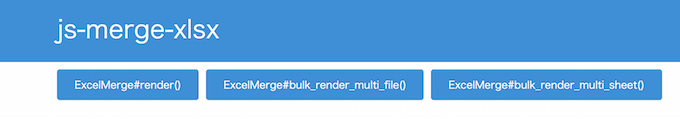
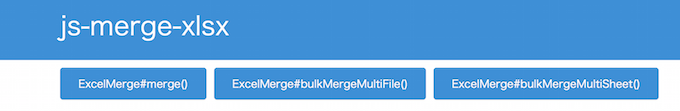
update ReadMe

Changed region(s): [[0.0618, 0.5676, 0.9882, 0.9189], [0.0618, 0.1351, 0.3397, 0.3784], [0.0, 0.5135, 1.0, 0.5405]]

diff --git a/example/1_node/src/app.js b/example/1_node/src/app.js
@@ -16,23 +16,23 @@ var _ = require('underscore');
 fs.readFileAsync('./template/Template.xlsx')
 .then((excelTemplate)=>{
     return Promise.props({
-        data: readYamlAsync('./data/data1.yml'),                //Load single data
-        bulkData: readYamlAsync('./data/data2.yml'),            //Load array data
-        merge: new ExcelMerge().load(new JSZip(excelTemplate))  //Initialize ExcelMerge object
+    data: readYamlAsync('./data/data1.yml'),                        //Load single data
+        bulkData: readYamlAsync('./data/data2.yml'),                //Load array data
+        excelMerge: new ExcelMerge().load(new JSZip(excelTemplate)) //Initialize ExcelMerge object
     });
-}).then(({data, bulkData, merge})=>{
+}).then(({data, bulkData, excelMerge})=>{
 
-    //add name property for ExcelMerge#bulkRenderMultiFile()
+    //add name property for ExcelMerge#bulkMergeMultiFile()
     let bulkData1 = _.map(bulkData, (e,index)=> ({name:`file${index+1}.xlsx`, data:e}));
 
-    //add name property for ExcelMerge#bulkRenderMultiSheet()
+    //add name property for ExcelMerge#bulkMergeMultiSheet()
     let bulkData2 = _.map(bulkData, (e,index)=> ({name:`example${index+1}`, data:e}));
 
-    //Execute rendering
+    //Execute merge
     return Promise.props({
-        excel1: merge.render(data),
-        excel2: merge.bulkRenderMultiFile(bulkData1),
-        excel3: merge.bulkRenderMultiSheet(bulkData2)
+        excel1: excelMerge.merge(data),
+        excel2: excelMerge.bulkMergeMultiFile(bulkData1),
+        excel3: excelMerge.bulkMergeMultiSheet(bulkData2)
     });
 }).then(({excel1, excel2, excel3})=>{
     return Promise.all([

diff --git a/README.md b/README.md
@@ -25,18 +25,48 @@ Prepare the template with bind-variables as mustache format {{}}.
 js-merge-xlsx supports Promises/A+([bluebird](https://github.com/petkaantonov/bluebird)). So, it is called basically in Promise-chain.  
 Example(ES6 syntax)  
 ```JavaScript
+/**
+ * * app.js
+ * * Example on Node.js
+ * * @author Satoshi Haga
+ * * @date 2015/09/30
+ **/
+
+var ExcelMerge = require('js-merge-xlsx');
+var Promise = require('bluebird');
+var readYamlAsync = Promise.promisify(require('read-yaml'));
+var fs = Promise.promisifyAll(require('fs'));
+var JSZip = require('jszip');
+var _ = require('underscore');
+
+//Load Template
 fs.readFileAsync('./template/Template.xlsx')
-.then((excel_template)=>{
+.then((excelTemplate)=>{
     return Promise.props({
-        rendering_data: readYamlAsync('./data/data.yml'),
-        merge: new ExcelMerge().load(new JSZip(excel_template))
+    data: readYamlAsync('./data/data1.yml'),                        //Load single data
+        bulkData: readYamlAsync('./data/data2.yml'),                //Load array data
+        excelMerge: new ExcelMerge().load(new JSZip(excelTemplate)) //Initialize ExcelMerge object
     });
-}).then((result)=>{
-    let rendering_data = result.rendering_data;
-    let merge =  result.merge;
-    return merge.render(rendering_data);
-}).then((excel_data)=>{
-    fs.writeFileAsync('Example.xlsx',excel_data);
+}).then(({data, bulkData, excelMerge})=>{
+
+    //add name property for ExcelMerge#bulkMergeMultiFile()
+    let bulkData1 = _.map(bulkData, (e,index)=> ({name:`file${index+1}.xlsx`, data:e}));
+
+    //add name property for ExcelMerge#bulkMergeMultiSheet()
+    let bulkData2 = _.map(bulkData, (e,index)=> ({name:`example${index+1}`, data:e}));
+
+    //Execute merge
+    return Promise.props({
+        excel1: excelMerge.merge(data),
+        excel2: excelMerge.bulkMergeMultiFile(bulkData1),
+        excel3: excelMerge.bulkMergeMultiSheet(bulkData2)
+    });
+}).then(({excel1, excel2, excel3})=>{
+    return Promise.all([
+        fs.writeFileAsync('example1.xlsx',excel1),
+        fs.writeFileAsync('example2.zip',excel2),
+        fs.writeFileAsync('example3.xlsx',excel3)
+    ]);
 }).catch((err)=>{
     console.error(new Error(err).stack);
 });
@@ -50,21 +80,84 @@ Bluebird automatically casts thenable object, such as object returned by "$http.
 So, you can code in the same way as Node.js.    
 Example(ES6 syntax)  
 ```JavaScript
-Promise.resolve($http.get('/template/Template.xlsx', {responseType: "arraybuffer"}))
-.then((excel_template)=>{
-    return Promise.props({
-        rendering_data: $http.get('/data/data1.json'),
-        merge: new ExcelMerge().load(new JSZip(excel_template.data))
-    });
-}).then((result)=>{
-    let rendering_data = result.rendering_data.data;
-    let merge =  result.merge;
-    return merge.render(rendering_data);
-}).then((excel_data)=>{
-    saveAs(excel_data,'Example.xlsx');  //FileSaver
-}).catch((err)=>{
-    console.error(err);
-});
+/**
+ * * indexController.js
+ * * angular controller definition
+ * * @author Satoshi Haga
+ * * @date 2015/10/06
+ **/
+
+var Promise = require('bluebird');
+var ExcelMerge = require('js-merge-xlsx');
+var JSZip = require('jszip');
+var _ = require('underscore');
+
+var indexController = ($scope, $http)=>{
+
+    /**
+     * * exampleMerge
+     * * example of ExcelMerge#merge()
+     */
+    $scope.exampleMerge = ()=>{
+        Promise.resolve($http.get('/template/Template.xlsx', {responseType: "arraybuffer"}))
+        .then((excelTemplate)=>{
+            return Promise.props({
+                data: $http.get('/data/data1.json'),
+                excelMerge: new ExcelMerge().load(new JSZip(excelTemplate.data))
+            });
+        }).then(({data, excelMerge})=>{
+            return excelMerge.merge(data.data);
+        }).then((excelData)=>{
+            saveAs(excelData,'example.xlsx');   //FileSaver#saveAs()
+        }).catch((err)=>{
+            console.error(err);
+        });
+    };
+
+    /**
+     * * exampleBulkMergeMultiFile
+     * * example of ExcelMerge#bulkMergeMultiFile()
+     */
+    $scope.exampleBulkMergeMultiFile = ()=>{
+        Promise.resolve($http.get('/template/Template.xlsx', {responseType: "arraybuffer"}))
+        .then((excelTemplate)=>{
+            return Promise.props({
+                data: $http.get('/data/data2.json'),
+                excelMerge: new ExcelMerge().load(new JSZip(excelTemplate.data))
+            });
+        }).then(({data, excelMerge})=>{
+            data = _.map(data.data, (e,index)=>({name:`file${(index+1)}.xlsx`, data:e}));
+            return excelMerge.bulkMergeMultiFile(data); //FileSaver#saveAs()
+        }).then((zipData)=>{
+            saveAs(zipData,'example.zip');
+        }).catch((err)=>{
+            console.error(err);
+        });
+    };
+
+    /**
+     * * exampleBulkMergeMultiSheet
+     * * example of ExcelMerge#bulkMergeMultiSheet()
+     */
+    $scope.exampleBulkMergeMultiSheet = ()=>{
+        Promise.resolve($http.get('/template/Template.xlsx', {responseType: "arraybuffer"}))
+        .then((excelTemplate)=>{
+            return Promise.props({
+                data: $http.get('/data/data2.json'),
+                excelMerge: new ExcelMerge().load(new JSZip(excelTemplate.data))
+            });
+        }).then(({data, excelMerge})=>{
+            data = _.map(data.data, (e,index)=>({name:`sample${(index+1)}`, data:e}));
+            return excelMerge.bulkMergeMultiSheet(data);
+        }).then((excelData)=>{
+            saveAs(excelData,'example.xlsx');
+        }).catch((err)=>{
+            console.error(err);
+        });
+    };
+};
+
+module.exports = indexController;
 ```
 
 Please check [example codes](https://github.com/hagasatoshi/js-merge-xlsx/tree/master/example/2_express) and [API](https://github.com/hagasatoshi/js-merge-xlsx/blob/master/API.md) for detail.

diff --git a/example/1_node/README.md b/example/1_node/README.md
@@ -41,23 +41,23 @@ var _ = require('underscore');
 fs.readFileAsync('./template/Template.xlsx')
 .then((excelTemplate)=>{
     return Promise.props({
-        data: readYamlAsync('./data/data1.yml'),                //Load single data
-        bulkData: readYamlAsync('./data/data2.yml'),            //Load array data
-        merge: new ExcelMerge().load(new JSZip(excelTemplate))  //Initialize ExcelMerge object
+    data: readYamlAsync('./data/data1.yml'),                        //Load single data
+        bulkData: readYamlAsync('./data/data2.yml'),                //Load array data
+        excelMerge: new ExcelMerge().load(new JSZip(excelTemplate)) //Initialize ExcelMerge object
     });
-}).then(({data, bulkData, merge})=>{
+}).then(({data, bulkData, excelMerge})=>{
 
-    //add name property for ExcelMerge#bulkRenderMultiFile()
+    //add name property for ExcelMerge#bulkMergeMultiFile()
     let bulkData1 = _.map(bulkData, (e,index)=> ({name:`file${index+1}.xlsx`, data:e}));
 
-    //add name property for ExcelMerge#bulkRenderMultiSheet()
+    //add name property for ExcelMerge#bulkMergeMultiSheet()
     let bulkData2 = _.map(bulkData, (e,index)=> ({name:`example${index+1}`, data:e}));
 
-    //Execute rendering
+    //Execute merge
     return Promise.props({
-        excel1: merge.render(data),
-        excel2: merge.bulkRenderMultiFile(bulkData1),
-        excel3: merge.bulkRenderMultiSheet(bulkData2)
+        excel1: excelMerge.merge(data),
+        excel2: excelMerge.bulkMergeMultiFile(bulkData1),
+        excel3: excelMerge.bulkMergeMultiSheet(bulkData2)
     });
 }).then(({excel1, excel2, excel3})=>{
     return Promise.all([
